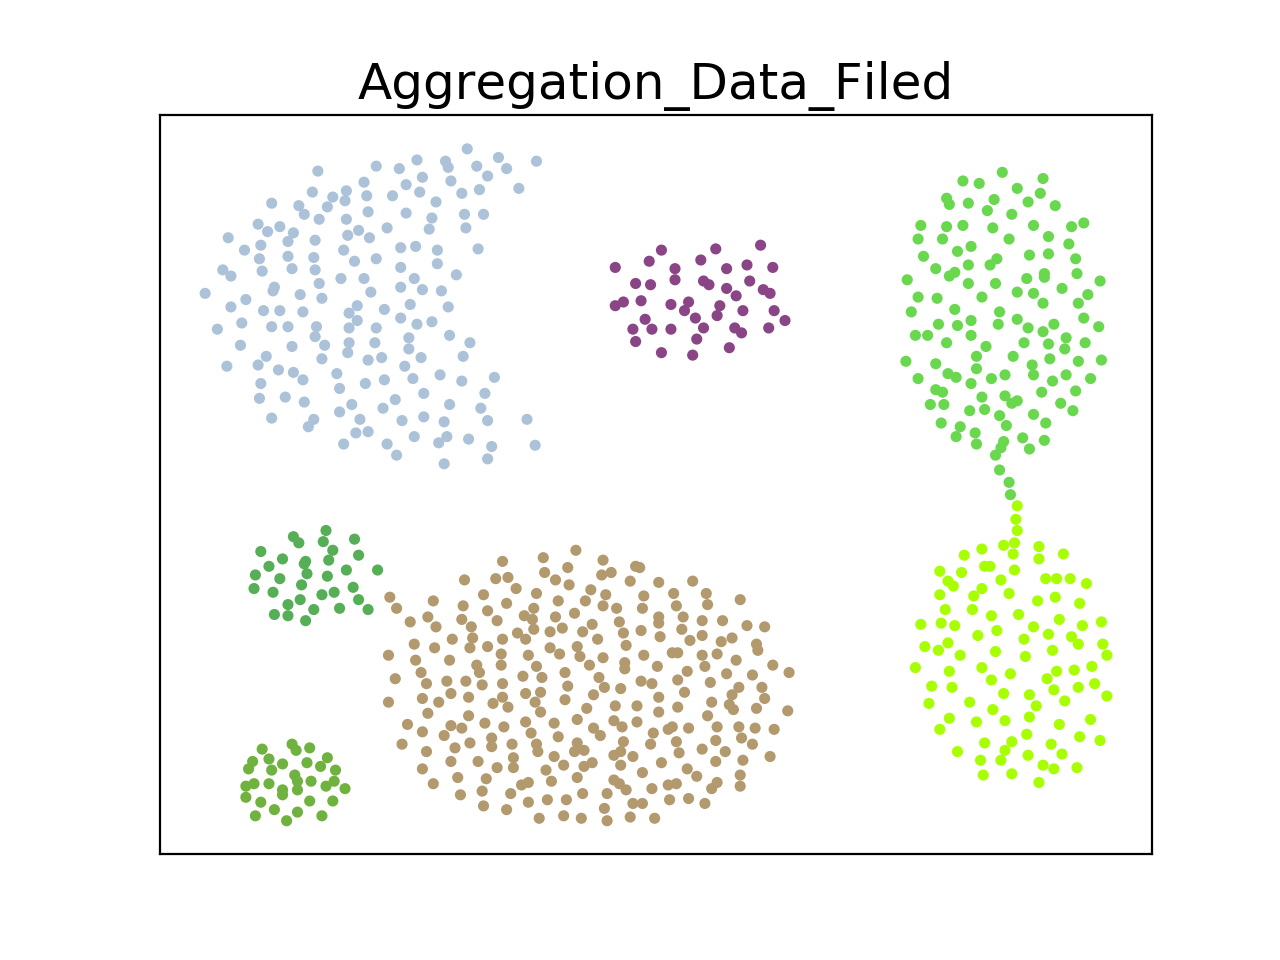
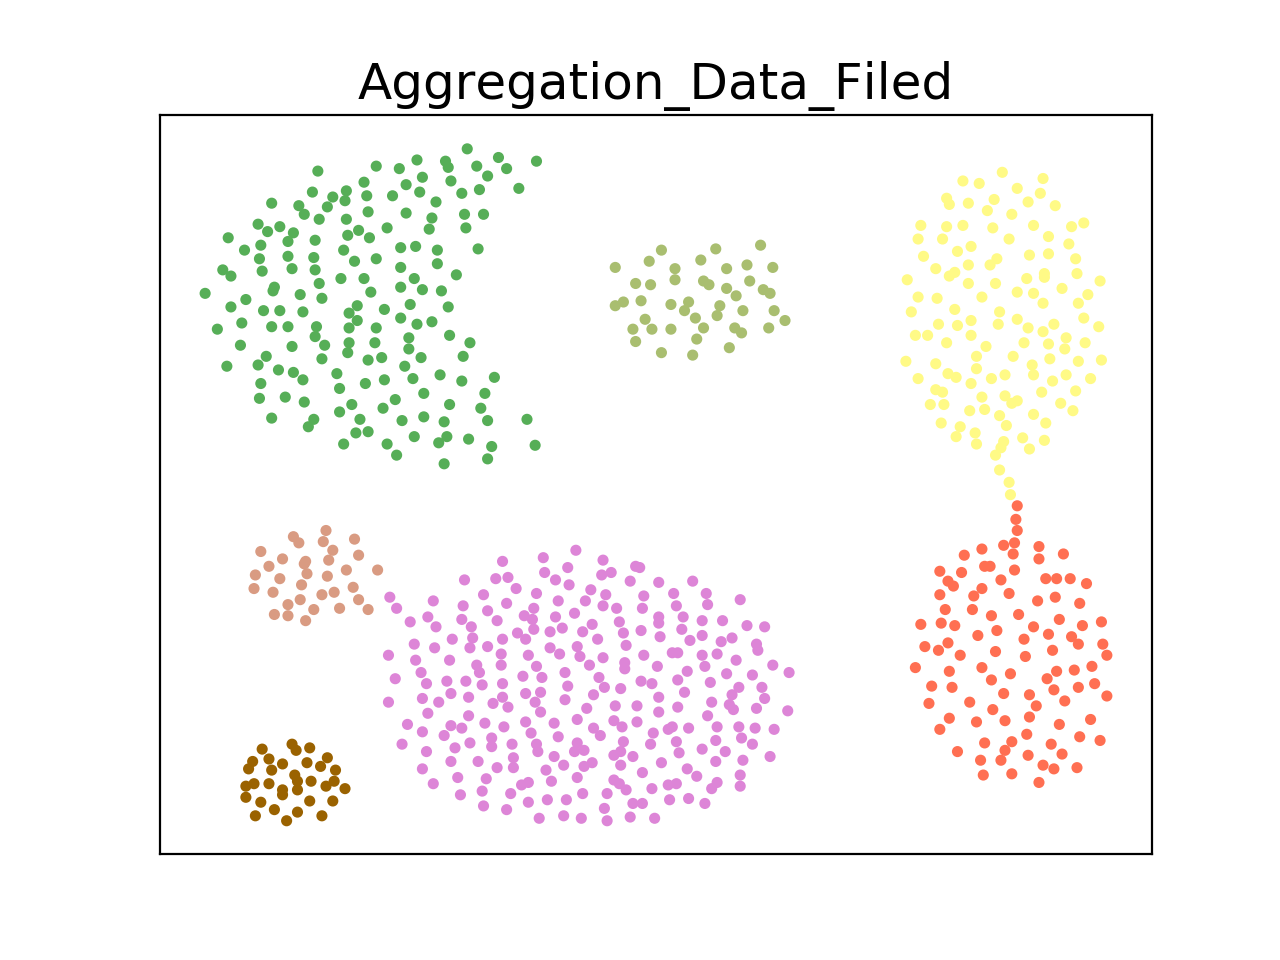
result

diff --git a/DPC/draw.py b/DPC/draw.py
@@ -3,9 +3,16 @@ import matplotlib.pyplot as plt
 import matplotlib.colors as color
 from itertools import cycle, islice
 
+def filterColor():
+    result = []
+    for index,value in  enumerate(color._colors_full_map.values()):
+        if(index % 15 == 1):
+            result.append(value)
+    return result
+
 def draw(y_pred, dataSet, name):
 
-    colors = np.array(list(islice(cycle(color._colors_full_map.values()),int(max(y_pred) + 1))))
+    colors = np.array(list(islice(cycle(filterColor()),int(max(y_pred) + 1))))
 
     plt.clf()
     plt.title(name, size = 18)

diff --git a/main.py b/main.py
@@ -1,6 +1,5 @@
 #-*- coding:utf-8 -*-
 
-from math import *
 import numpy as np
 from sklearn import cluster
 from DPC import DPC
